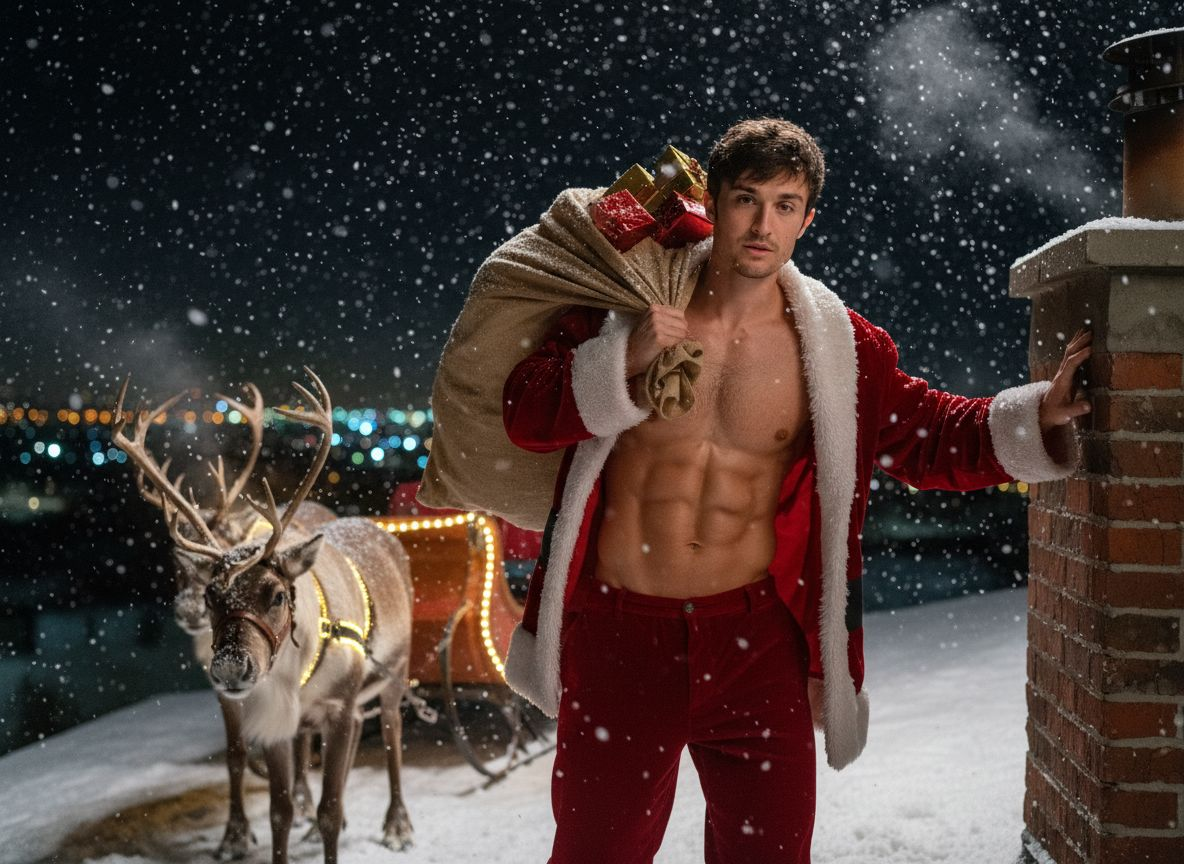
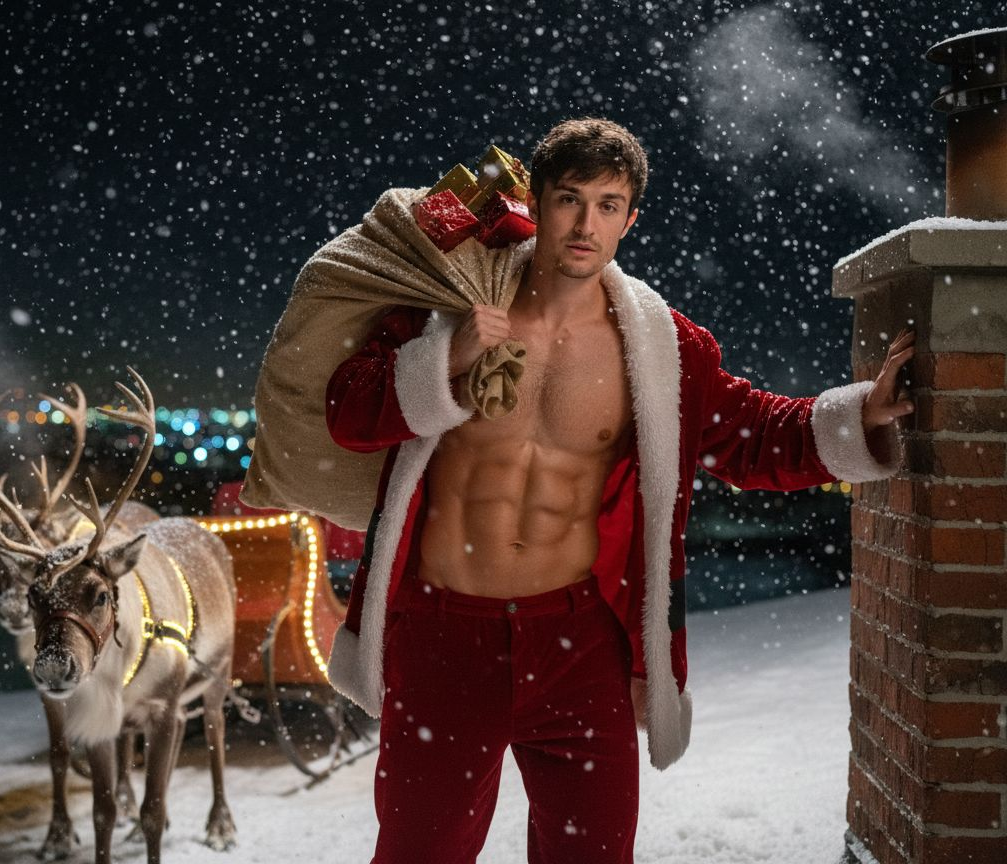
Recenter christmas.png character and add lumberjack example to carousel

diff --git a/app/templates/index.html b/app/templates/index.html
@@ -268,6 +268,19 @@
                         </div>
                     </div>
                 </div>
+
+                <!-- Card 8 - Lumberjack -->
+                <div class="figma-carousel-card">
+                    <div class="figma-card-inner">
+                        <img src="{{ url_for('static', filename='assets/images/examples/lumberjack.png') }}"
+                             alt="Lumberjack Calendar Example"
+                             class="figma-card-image">
+                        <div class="figma-card-overlay"></div>
+                        <div class="figma-card-caption">
+                            Real customer calendars
+                        </div>
+                    </div>
+                </div>
             </div>
         </div>
 
